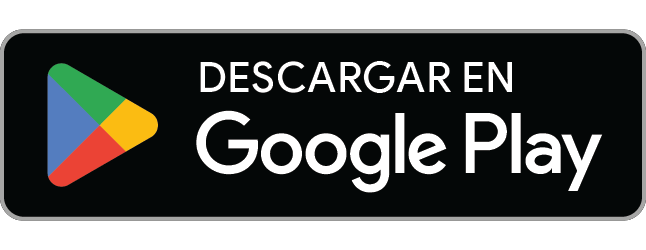
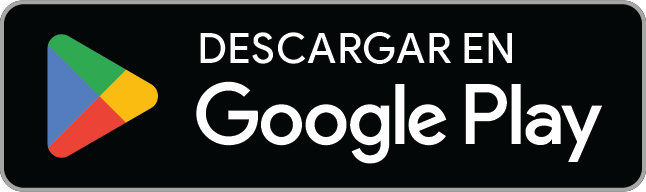
fix(landing): badges de tiendas alineados
Los badges quedaban desalineados: (1) `.ctaFinal img` (regla del ícono
de la app) los aplastaba a 60x60 en la sección #descargar — scopeada a
`.ctaFinal > img`; (2) tenían alturas distintas (50 vs 58) por el padding
transparente de 29px arriba/abajo que trae el PNG oficial de Google —
recortado a 646x192 (borde a borde, como el SVG de Apple); (3) una sola
regla `.storeBadges img{height:50px}` para los dos.

Ahora ambos badges: misma altura, top/bottom alineados en fila, y bien
centrados apilados en mobile. Sin overflow horizontal.

Validado en navegador: 375px, 700px y 1280px.

diff --git a/public/apoderados.html b/public/apoderados.html
@@ -69,12 +69,8 @@
   .storeBadges{display:flex;align-items:center;gap:12px;flex-wrap:wrap}
   .storeBadges a{display:block;line-height:0;transition:opacity .15s}
   .storeBadges a:hover{opacity:.82}
-  .storeBadges .badgeApple{height:50px;width:auto;display:block}
-  .storeBadges .badgeGoogle{height:58px;width:auto;display:block;margin:-4px 0}
-  @media (max-width:420px){
-    .storeBadges .badgeApple{height:44px}
-    .storeBadges .badgeGoogle{height:51px}
-  }
+  .storeBadges img{height:50px;width:auto;display:block}
+  @media (max-width:420px){.storeBadges img{height:44px}}
 
   /* hero */
   .hero{background:var(--navy);position:relative;overflow:hidden}
@@ -275,7 +271,7 @@
   /* cta final */
   .ctaFinal{border-radius:28px;background:linear-gradient(#F8FAFC,#EFF6FF);border:1px solid #DDE7F6;padding:64px;text-align:center;margin-bottom:96px}
   @media (max-width:900px){.ctaFinal{padding:32px}}
-  .ctaFinal img{width:60px;height:60px;border-radius:16px;display:block;margin:0 auto 24px}
+  .ctaFinal > img{width:60px;height:60px;border-radius:16px;display:block;margin:0 auto 24px}
   .ctaFinal h2{max-width:700px;margin-left:auto;margin-right:auto}
   .ctaFinal p{margin:18px auto 0;font-size:17.5px;line-height:1.6;color:var(--body);max-width:520px}
   .ctaFinalBtns{display:flex;justify-content:center;gap:12px;margin-top:32px;flex-wrap:wrap}
